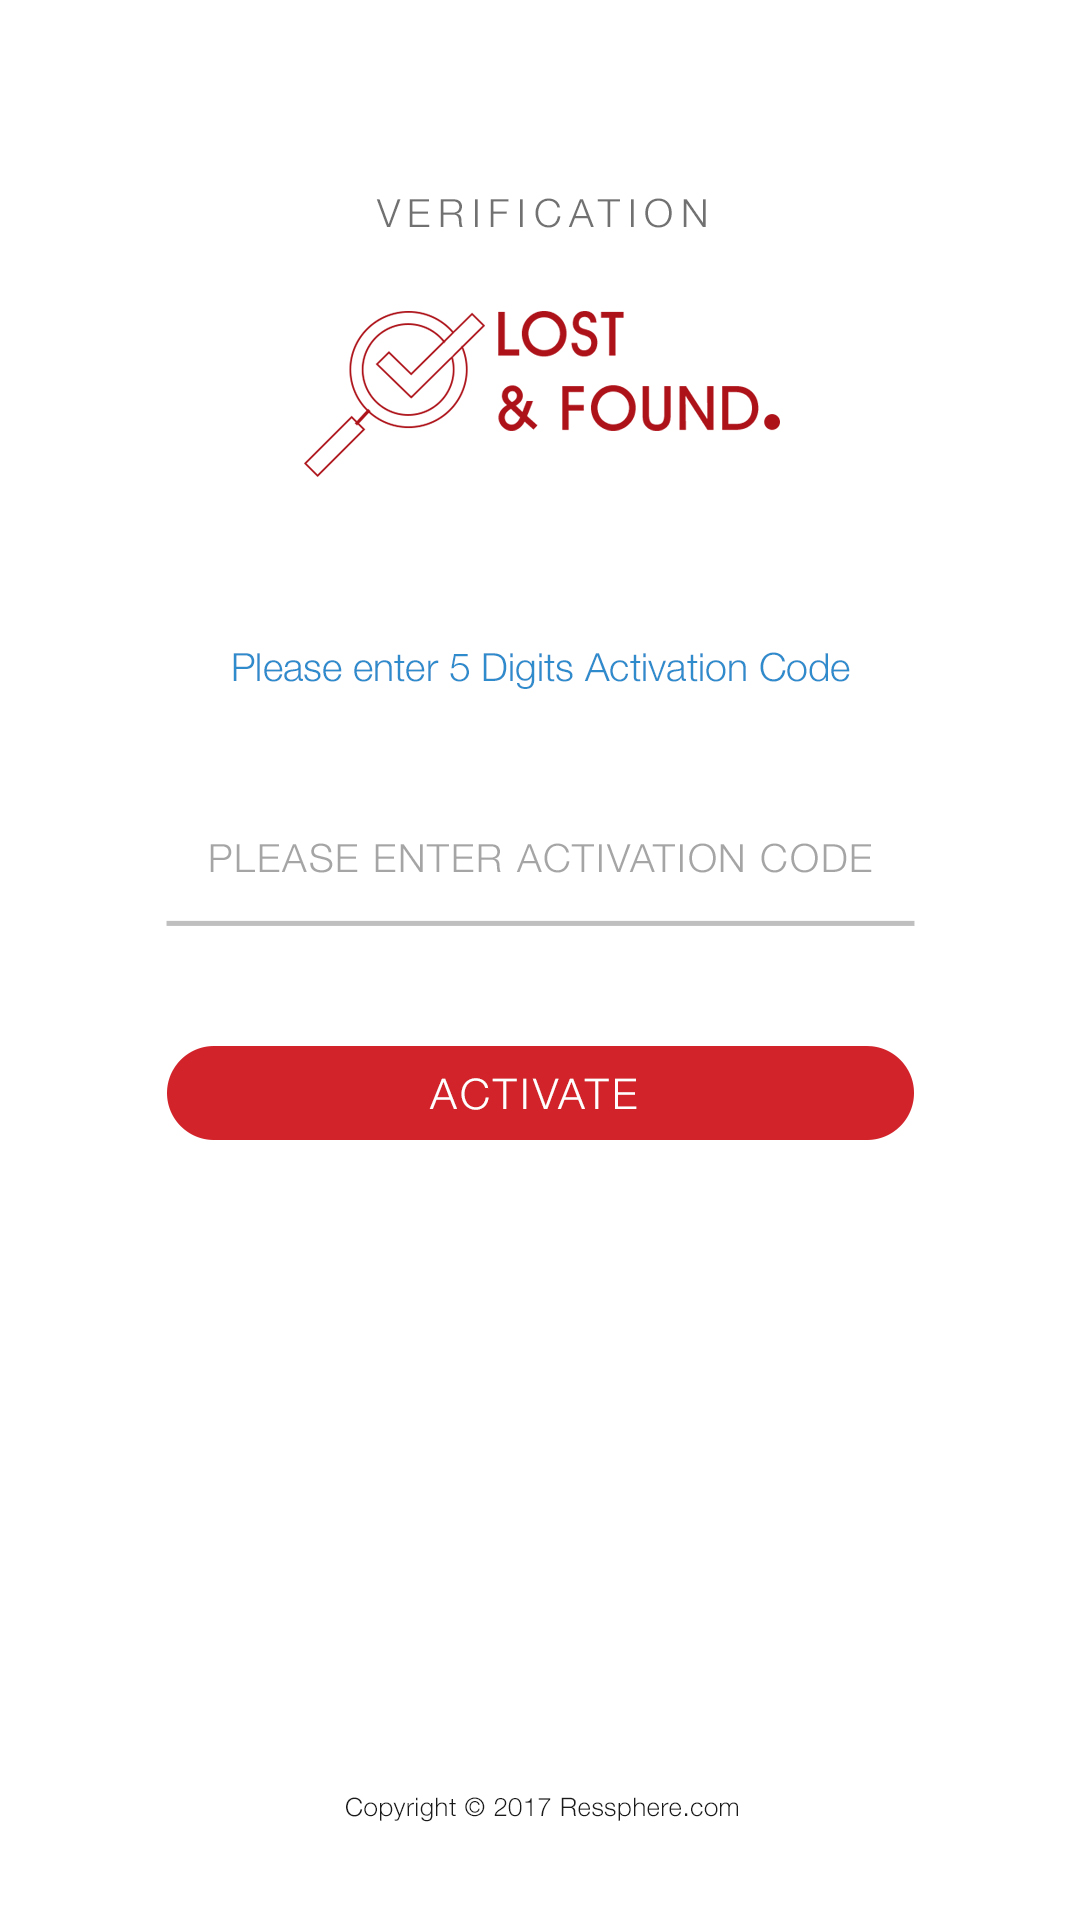
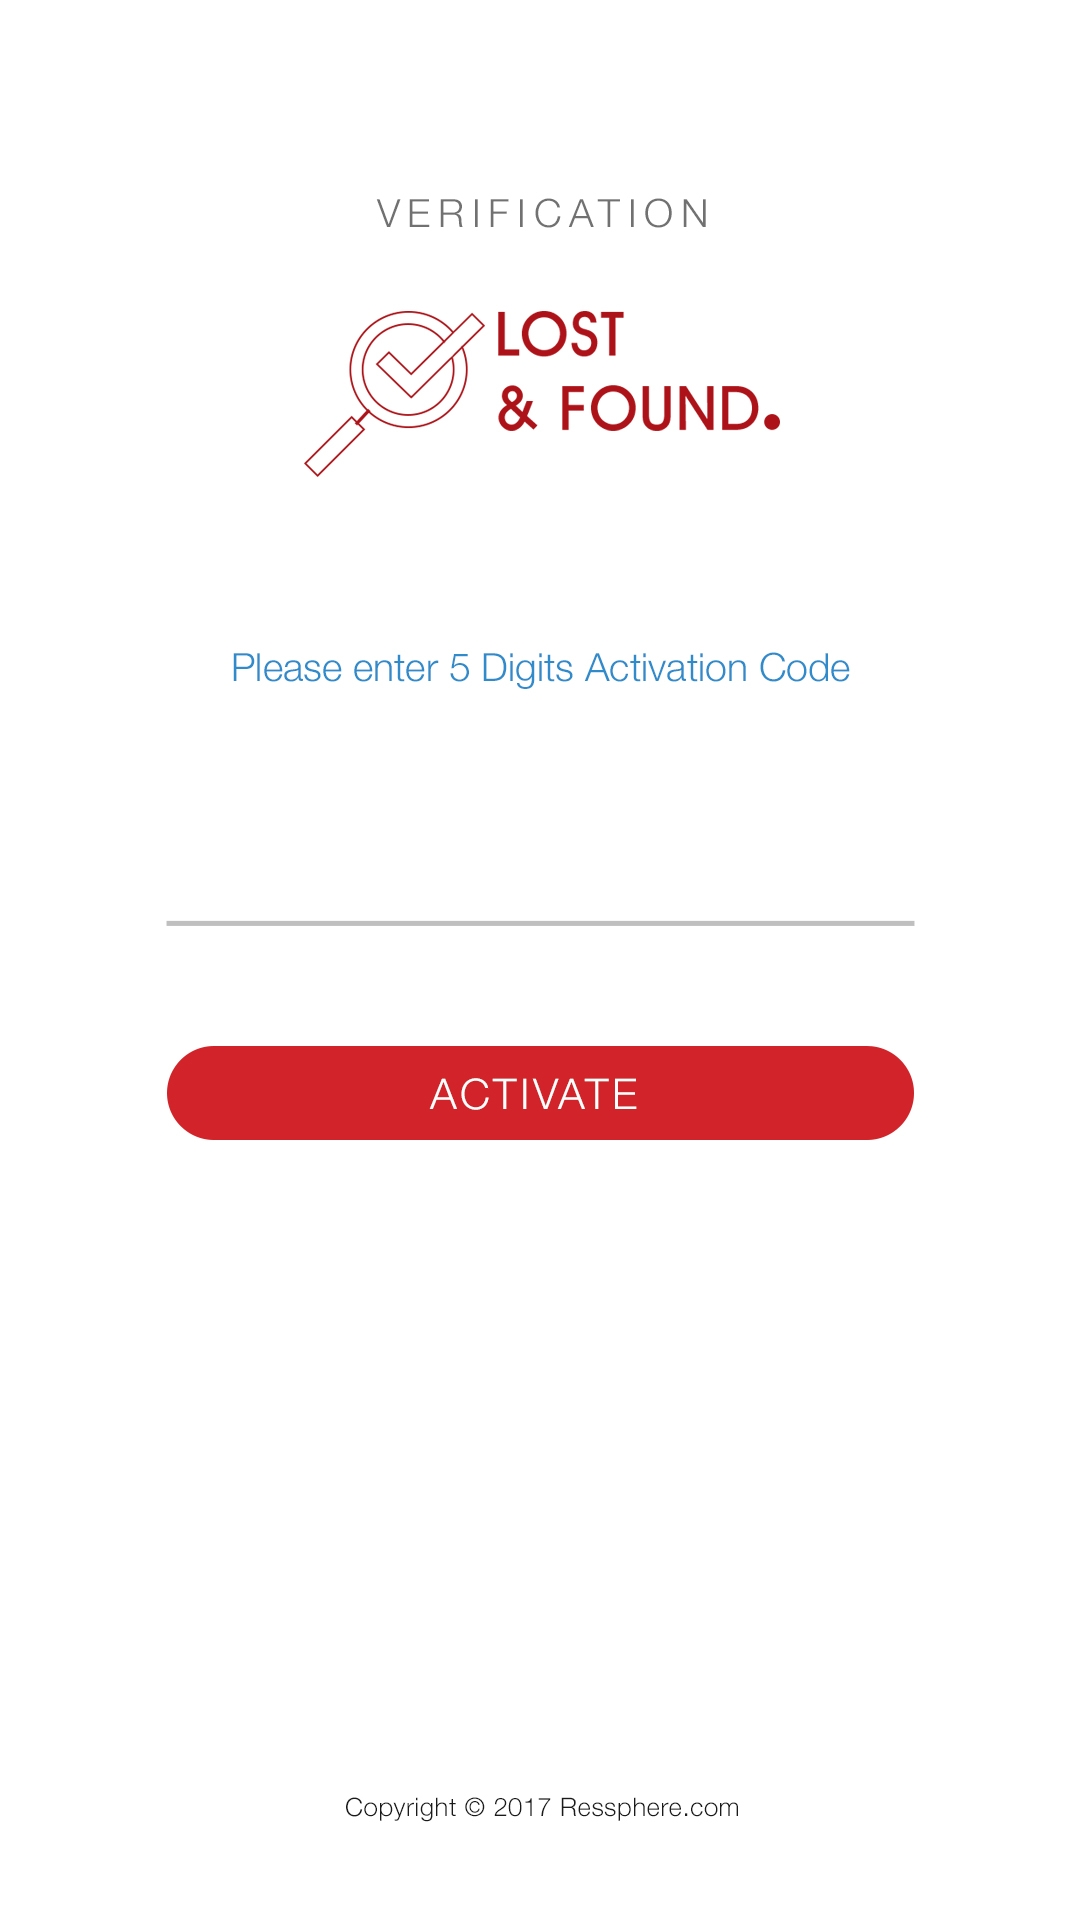
Settle the dummy code verifier as well

Changed region(s): [[0.2139, 0.4375, 0.4583, 0.4688], [0.4889, 0.4375, 0.6722, 0.4688], [0.7028, 0.4375, 0.7944, 0.4688]]

diff --git a/LostAndFound/www/css/activation_page.css b/LostAndFound/www/css/activation_page.css
@@ -1,0 +1,268 @@
+/*
+ * Base structure
+ */
+
+html,
+body {
+    height: 100%;
+    background-color: #333;
+}
+
+body {
+    color: #fff;
+    text-align: center;
+    text-shadow: 0 .05rem .1rem rgba(0,0,0,.5);
+}
+
+/* Extra markup and styles for table-esque vertical and horizontal centering */
+.site-wrapper {
+    display: table;
+    width: 100%;
+    height: 500px; /* For at least Firefox */
+    min-height: 100%;
+    /*background: url(../img/Welcome-bg2.jpg) no-repeat;*/
+    background-size: auto;
+    background-position: center center;
+    background-size: auto 100%;
+    /*-webkit-box-shadow: inset 0 0 5rem rgba(0,0,0,.5);
+          box-shadow: inset 0 0 5rem rgba(0,0,0,.5);*/
+}
+
+.site-wrapper-inner {
+    display: table-cell;
+    vertical-align: top;
+}
+
+.cover-container {
+    margin-right: auto;
+    margin-left: auto;
+}
+
+.main-container {
+    display: table;
+    width: 604px;
+    height: 500px; /* For at least Firefox */
+    min-height: 100%;
+    background: url(../img/activation_page.jpg) no-repeat;
+    background-size: auto;
+    background-position: center center;
+    background-size: auto 100%;
+}
+
+/* Padding for spacing */
+.inner {
+    padding: 2rem;
+}
+
+
+/*
+ * Header
+ */
+
+/*.masthead {
+  margin-bottom: 2rem;
+}*/
+
+.masthead-brand {
+    margin-bottom: 0;
+}
+
+.nav-masthead .nav-link {
+    padding: .25rem 0;
+    font-weight: bold;
+    color: rgba(255,255,255,.5);
+    background-color: transparent;
+    border-bottom: .25rem solid transparent;
+}
+
+    .nav-masthead .nav-link:hover,
+    .nav-masthead .nav-link:focus {
+        border-bottom-color: rgba(255,255,255,.25);
+    }
+
+    .nav-masthead .nav-link + .nav-link {
+        margin-left: 1rem;
+    }
+
+.nav-masthead .active {
+    color: #fff;
+    border-bottom-color: #fff;
+}
+
+
+
+@media (min-width: 48em) {
+    .masthead-brand {
+        float: left;
+    }
+
+    .nav-masthead {
+        float: right;
+    }
+}
+
+
+/*
+ * Cover
+ */
+
+.cover {
+    padding: 0 1.5rem;
+}
+
+    .cover .btn-lg {
+        padding: .75rem 1.25rem;
+        font-weight: bold;
+    }
+
+
+/*
+ * Footer
+ */
+
+.mastfoot {
+    color: rgba(0,0,0,1);
+    /*position: fixed;*/
+    bottom: 0;
+    width: 100%;
+}
+
+
+/*
+ * Affix and center
+ */
+@media (min-height: 451px) {
+
+    .masthead {
+        /* top: 1000px; */
+        margin-top: 10%;
+        height: 295px
+    }
+}
+
+.masthead {
+    /* top: 1000px; */
+    margin-top: 10%;
+    height: 230px
+}
+
+/*
+ * Affix and center
+ */
+@media (min-height: 590px) {
+
+    .masthead {
+        /* top: 1000px; */
+        margin-top: 20%;
+    }
+}
+
+.masthead-brand {
+    float: none;
+}
+
+@media (min-width: 40em) {
+    /* Pull out the header and footer */
+    .masthead {
+        top: 0;
+    }
+
+    .mastfoot {
+        /*position: fixed;*/
+        bottom: 0;
+    }
+    /* Start the vertical centering */
+    .site-wrapper-inner {
+        vertical-align: middle;
+    }
+    /* Handle the widths */
+    .masthead,
+    .mastfoot,
+    .cover-container {
+        width: 100%; /* Must be percentage or pixels for horizontal alignment */
+    }
+}
+
+@media (min-width: 62em) {
+    .masthead,
+    .mastfoot,
+    .cover-container {
+        width: 42rem;
+        height: 50px
+    }
+}
+
+.app {
+    background-color: white
+}
+
+.loginBg {
+    /*background: url('../img/Welcome-bg.jpg') no-repeat;*/
+    background-color: white;
+    background-size: cover; /* <------ */
+    background-repeat: no-repeat;
+    background-position: center center;
+}
+
+.lead {
+    color: gray
+}
+
+.cover-heading {
+    color: darkred;
+}
+
+.iwt {
+    display: block;
+}
+
+.btn {
+    font-family: 'Century Gothic';
+    width: 200px;
+    font-size: 14px;
+}
+
+#cancelLogin {
+    border-color: #97c5e6;
+    color: #2C8ACF;
+    border-width: medium;
+}
+
+#title
+{
+    font-size:10px;
+    color:black
+}
+
+.footer {
+    font-size: 10px
+}
+
+
+/****************************************/
+/* Contain of the login item */
+.activation_page_debug_location {
+    /*
+    background-color: green;
+    opacity: .4;
+    */
+}
+
+#activation_page_code {
+    width: 200px;
+    height: 22px;
+    margin: 212px 0px 0px 205px;
+}
+
+#activation_page_activate_btn {
+    width: 200px;
+    height: 25px;
+    margin: 39px 0px 0px 205px;
+}
+
+#activation_page_error_display {
+    width: 200px;
+    height: 25px;
+    margin: 20px 0px 0px 205px;
+}
+

diff --git a/LostAndFound/www/activation_page.html b/LostAndFound/www/activation_page.html
@@ -1,0 +1,76 @@
+<!DOCTYPE html>
+<!--
+    Copyright (c) 2012-2016 Adobe Systems Incorporated. All rights reserved.
+
+    Licensed to the Apache Software Foundation (ASF) under one
+    or more contributor license agreements.  See the NOTICE file
+    distributed with this work for additional information
+    regarding copyright ownership.  The ASF licenses this file
+    to you under the Apache License, Version 2.0 (the
+    "License"); you may not use this file except in compliance
+    with the License.  You may obtain a copy of the License at
+
+    http://www.apache.org/licenses/LICENSE-2.0
+
+    Unless required by applicable law or agreed to in writing,
+    software distributed under the License is distributed on an
+    "AS IS" BASIS, WITHOUT WARRANTIES OR CONDITIONS OF ANY
+     KIND, either express or implied.  See the License for the
+    specific language governing permissions and limitations
+    under the License.
+-->
+<html>
+
+<head>
+    <meta charset="utf-8" />
+    <meta name="format-detection" content="telephone=no" />
+    <meta name="msapplication-tap-highlight" content="no" />
+    <meta name="viewport" content="user-scalable=no, initial-scale=1, maximum-scale=1, minimum-scale=1, width=device-width" />
+    <!-- This is a wide open CSP declaration. To lock this down for production, see below. -->
+    <meta http-equiv="Content-Security-Policy" content="
+    default-src * 'unsafe-inline';
+    style-src 'self' 'unsafe-inline';
+    media-src *; font-src 'self' data:;
+    " />
+    <!-- Good default declaration:
+    * gap: is required only on iOS (when using UIWebView) and is needed for JS->native communication
+    * https://ssl.gstatic.com is required only on Android and is needed for TalkBack to function properly
+    * Disables use of eval() and inline scripts in order to mitigate risk of XSS vulnerabilities. To change this:
+        * Enable inline JS: add 'unsafe-inline' to default-src
+        * Enable eval(): add 'unsafe-eval' to default-src
+    * Create your own at http://cspisawesome.com
+    -->
+    <!-- <meta http-equiv="Content-Security-Policy" content="default-src 'self' data: gap: 'unsafe-inline' https://ssl.gstatic.com; style-src 'self' 'unsafe-inline'; media-src *" /> -->
+    <link rel="stylesheet" type="text/css" href="css/bootstrap.min.css" />
+    <link rel="stylesheet" type="text/css" href="css/base.css" />
+    <link rel="stylesheet" type="text/css" href="css/activation_page.css" />
+    <title>Lost and Found</title>
+</head>
+
+<body class="black-bg loginBg" ng-app="BaseApp" ng-controller="ActivationPageCtrl">
+    <div class="app">
+        <div class="site-wrapper">
+            <div class="site-wrapper-inner">
+                <div class="cover-container">
+                    <div class="main-container">
+                        <div id="activation_page_code" class="activation_page_debug_location"><input type="text" ng-model="ag_activation_page.code" class="general_input_font general_input_str_box" onclick="this.setSelectionRange(0, this.value.length)" /></div>
+                        <div id="activation_page_activate_btn" class="activation_page_debug_location" onclick="window.location = 'visitor.html'"></div>
+                        <div id="activation_page_error_display" class="activation_page_debug_location general_input_font">{{ag_activation_page.error_display}}</div>
+                    </div>
+                </div>
+            </div>
+        </div>
+    </div>
+    <script type="text/javascript" src="cordova.js"></script>
+    <script type="text/javascript" src="js/jquery-3.2.1.min.js"></script>
+    <script type="text/javascript" src="js/popper.js"></script>
+    <script type="text/javascript" src="js/bootstrap.min.js"></script>
+    <script type="text/javascript" src="js/angular.min.js"></script>
+
+    <script type="text/javascript" src="js/activation_page.js"></script>
+    <script type="text/javascript">
+        app.initialize();
+    </script>
+</body>
+
+</html>

diff --git a/LostAndFound/www/js/activation_page.js b/LostAndFound/www/js/activation_page.js
@@ -1,0 +1,34 @@
+var BaseApp = angular.module('BaseApp', []);
+
+BaseApp.controller('ActivationPageCtrl', function ($scope) {
+    // Initial value
+    $scope.ag_activation_page = {
+        code: "PLEASE ENTER ACTIVATION CODE"
+    };
+    
+});
+
+var app = {
+    // Application Constructor
+    initialize: function () {
+        this.bindEvents();
+    },
+    // Bind Event Listeners
+    //
+    // Bind any events that are required on startup. Common events are:
+    // 'load', 'deviceready', 'offline', and 'online'.
+    bindEvents: function () {
+        document.addEventListener('deviceready', this.onDeviceReady, false);
+    },
+    // deviceready Event Handler
+    //
+    // The scope of 'this' is the event. In order to call the 'receivedEvent'
+    // function, we must explicitly call 'app.receivedEvent(...);'
+    onDeviceReady: function () {
+        app.receivedEvent('deviceready');
+    },
+    // Update DOM on a Received Event
+    receivedEvent: function (id) {
+        console.log('Received Event: ' + id);
+    }
+};
